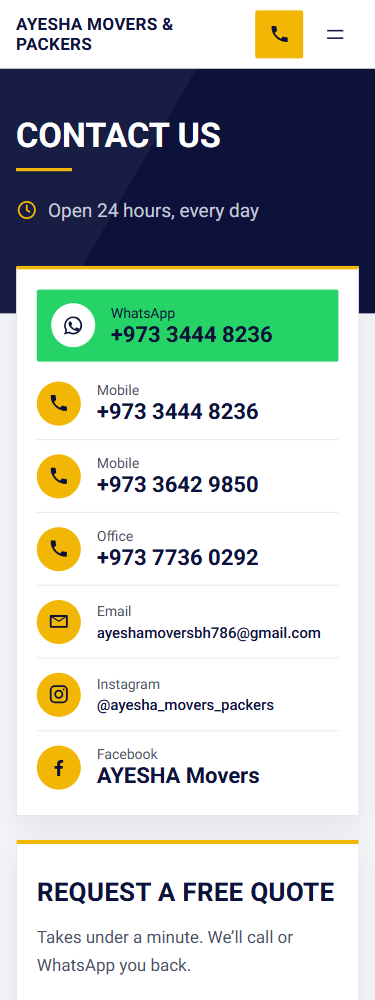
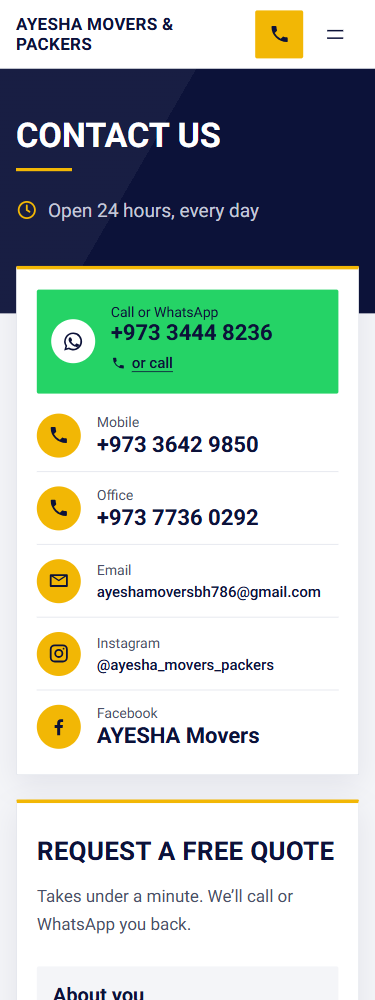
Phase 7: Contact Us shows one Call or WhatsApp row when the WhatsApp number is the main number
Same rule as the footer (ayesha-if-whatsapp-same / -differs): one green row (tap = WhatsApp, small
"or call" tel: link inside), no repeated Mobile row; both rows when the numbers differ.

diff --git a/docs/content/contact.html b/docs/content/contact.html
@@ -12,8 +12,22 @@
 <section class="wp-block-group alignfull ayesha-section ayesha-contact" style="padding-top:var(--wp--preset--spacing--50);padding-bottom:var(--wp--preset--spacing--60)"><!-- wp:columns {"className":"ayesha-contact__columns","style":{"spacing":{"blockGap":{"top":"var:preset|spacing|50","left":"var:preset|spacing|50"}}}} -->
 <div class="wp-block-columns ayesha-contact__columns"><!-- wp:column {"width":"41.67%","className":"ayesha-contact__aside"} -->
 <div class="wp-block-column ayesha-contact__aside" style="flex-basis:41.67%"><!-- wp:group {"metadata":{"name":"Contact rows (shown when Business Info \u003e Show contact details is on)"},"className":"ayesha-contact__rows ayesha-if-contact-details","layout":{"type":"default"}} -->
-<div class="wp-block-group ayesha-contact__rows ayesha-if-contact-details"><!-- wp:group {"metadata":{"name":"WhatsApp"},"className":"ayesha-contact__row ayesha-contact__row\u002d\u002dwhatsapp","style":{"spacing":{"blockGap":"0"}},"layout":{"type":"default"}} -->
-<div class="wp-block-group ayesha-contact__row ayesha-contact__row--whatsapp"><!-- wp:paragraph {"className":"ayesha-contact__label"} -->
+<div class="wp-block-group ayesha-contact__rows ayesha-if-contact-details"><!-- wp:group {"metadata":{"name":"Call or WhatsApp (shown when the WhatsApp number is the main number)"},"className":"ayesha-contact__row ayesha-contact__row\u002d\u002dwhatsapp ayesha-if-whatsapp-same","style":{"spacing":{"blockGap":"0"}},"layout":{"type":"default"}} -->
+<div class="wp-block-group ayesha-contact__row ayesha-contact__row--whatsapp ayesha-if-whatsapp-same"><!-- wp:paragraph {"className":"ayesha-contact__label"} -->
+<p class="ayesha-contact__label">Call or WhatsApp</p>
+<!-- /wp:paragraph -->
+
+<!-- wp:paragraph {"metadata":{"bindings":{"content":{"source":"ayesha/business","args":{"key":"whatsapp_link"}}},"name":"WhatsApp (from Business Info)"},"className":"ayesha-contact__value"} -->
+<p class="ayesha-contact__value"><a href="https://wa.me/97334448236">+973 3444 8236</a></p>
+<!-- /wp:paragraph -->
+
+<!-- wp:paragraph {"metadata":{"bindings":{"content":{"source":"ayesha/business","args":{"key":"phone_primary_link","label":"or call"}}},"name":"Or call (main number, from Business Info)"},"className":"ayesha-contact__alt"} -->
+<p class="ayesha-contact__alt"><a href="tel:+97334448236">or call</a></p>
+<!-- /wp:paragraph --></div>
+<!-- /wp:group -->
+
+<!-- wp:group {"metadata":{"name":"WhatsApp (shown when it is a different number from the main number)"},"className":"ayesha-contact__row ayesha-contact__row\u002d\u002dwhatsapp ayesha-if-whatsapp-differs","style":{"spacing":{"blockGap":"0"}},"layout":{"type":"default"}} -->
+<div class="wp-block-group ayesha-contact__row ayesha-contact__row--whatsapp ayesha-if-whatsapp-differs"><!-- wp:paragraph {"className":"ayesha-contact__label"} -->
 <p class="ayesha-contact__label">WhatsApp</p>
 <!-- /wp:paragraph -->
 
@@ -22,8 +36,8 @@
 <!-- /wp:paragraph --></div>
 <!-- /wp:group -->
 
-<!-- wp:group {"metadata":{"name":"Mobile (main number)"},"className":"ayesha-contact__row","style":{"spacing":{"blockGap":"0"}},"layout":{"type":"default"}} -->
-<div class="wp-block-group ayesha-contact__row"><!-- wp:paragraph {"className":"ayesha-contact__label"} -->
+<!-- wp:group {"metadata":{"name":"Mobile (main number) (shown when WhatsApp is a different number)"},"className":"ayesha-contact__row ayesha-if-whatsapp-differs","style":{"spacing":{"blockGap":"0"}},"layout":{"type":"default"}} -->
+<div class="wp-block-group ayesha-contact__row ayesha-if-whatsapp-differs"><!-- wp:paragraph {"className":"ayesha-contact__label"} -->
 <p class="ayesha-contact__label">Mobile</p>
 <!-- /wp:paragraph -->
 

diff --git a/wp-content/themes/ayesha-movers/assets/css/theme.css b/wp-content/themes/ayesha-movers/assets/css/theme.css
@@ -1700,6 +1700,42 @@ body:not(.editor-styles-wrapper) .ayesha-contact__columns:not(:has(.ayesha-conta
 .ayesha-contact__aside .ayesha-contact__row--whatsapp:hover { background: #3DDC77; }
 .ayesha-contact__aside .ayesha-contact__row:not(.ayesha-contact__row--whatsapp):hover { background: var(--ayesha-mist); }
 
+/* "Call or WhatsApp" row (WhatsApp number = main number): the row opens WhatsApp; the small
+   "or call" link under the number dials it. It sits above the row's tap area so it can be tapped. */
+.ayesha-contact__row > .ayesha-contact__alt {
+	position: relative;
+	z-index: 3;
+	grid-column: 2;
+	margin: 0.125rem 0 0 !important;
+	font-size: 0.9375rem;
+	line-height: 1.2;
+}
+
+/* Three lines in this row (label, number, "or call"): the icon circle spans all of them. */
+.ayesha-contact__row:has(> .ayesha-contact__alt)::after { grid-row: 1 / span 3; }
+
+.ayesha-contact__alt a {
+	display: inline-flex;
+	align-items: center;
+	gap: 0.375rem;
+	min-height: 32px;
+	color: var(--ayesha-navy);
+	font-weight: 500;
+	text-decoration: underline;
+	text-underline-offset: 0.2em;
+}
+
+.ayesha-contact__alt a::before {
+	content: "";
+	width: 0.9375rem;
+	height: 0.9375rem;
+	background: currentColor;
+	-webkit-mask: var(--ayesha-icon-phone) center / contain no-repeat;
+	mask: var(--ayesha-icon-phone) center / contain no-repeat;
+}
+
+.ayesha-contact__alt a:focus-visible { outline: 3px solid var(--ayesha-navy); outline-offset: 2px; box-shadow: 0 0 0 2px #fff; }
+
 /* With "Show contact details" off the rows card is empty: hide it (front end only). */
 body:not(.editor-styles-wrapper) .ayesha-contact__aside:not(:has(.ayesha-contact__rows)) { display: none; }
 

diff --git a/wp-content/themes/ayesha-movers/patterns/contact-page.php b/wp-content/themes/ayesha-movers/patterns/contact-page.php
@@ -16,10 +16,13 @@
  * @param string $label Visible label.
  * @param string $key   Business Info key (a *_link key).
  * @param string $html  Fallback link HTML (what the editor stores; the site shows the live value).
+ * @param string $link_text Own link words (binding "label"), or '' for the value itself.
+ * @param string $extra     Extra classes, e.g. ayesha-if-whatsapp-same / ayesha-if-whatsapp-differs (same rule as the footer).
+ * @param string $after     Extra block markup inside the row, after the value.
  * @return string
  */
-$ayesha_row = static function ( $name, $label, $key, $html, $link_text = '' ) {
-	$classes = 'ayesha-contact__row' . ( 'whatsapp_link' === $key ? ' ayesha-contact__row--whatsapp' : '' ) . ( 'facebook_link' === $key ? ' ayesha-if-facebook' : '' );
+$ayesha_row = static function ( $name, $label, $key, $html, $link_text = '', $extra = '', $after = '' ) {
+	$classes = 'ayesha-contact__row' . ( 'whatsapp_link' === $key ? ' ayesha-contact__row--whatsapp' : '' ) . ( 'facebook_link' === $key ? ' ayesha-if-facebook' : '' ) . ( '' === $extra ? '' : ' ' . $extra );
 	$args    = '"key":"' . esc_attr( $key ) . '"' . ( '' === $link_text ? '' : ',"label":"' . esc_attr( $link_text ) . '"' );
 	return '<!-- wp:group {"metadata":{"name":"' . esc_attr( $name ) . '"},"className":"' . $classes . '","style":{"spacing":{"blockGap":"0"}},"layout":{"type":"default"}} -->
 <div class="wp-block-group ' . $classes . '"><!-- wp:paragraph {"className":"ayesha-contact__label"} -->
@@ -28,13 +31,21 @@ $ayesha_row = static function ( $name, $label, $key, $html, $link_text = '' ) {
 
 <!-- wp:paragraph {"className":"ayesha-contact__value","metadata":{"bindings":{"content":{"source":"ayesha/business","args":{' . $args . '}}},"name":"' . esc_attr( $name ) . ' (from Business Info)"}} -->
 <p class="ayesha-contact__value">' . $html . '</p>
-<!-- /wp:paragraph --></div>
+<!-- /wp:paragraph -->' . $after . '</div>
 <!-- /wp:group -->';
 };
 
+// The small "or call" link inside the combined row (tap the row = WhatsApp).
+$ayesha_or_call = '
+
+<!-- wp:paragraph {"className":"ayesha-contact__alt","metadata":{"bindings":{"content":{"source":"ayesha/business","args":{"key":"phone_primary_link","label":"or call"}}},"name":"Or call (main number, from Business Info)"}} -->
+<p class="ayesha-contact__alt"><a href="tel:+97334448236">or call</a></p>
+<!-- /wp:paragraph -->';
+
 $ayesha_rows = array(
-	$ayesha_row( 'WhatsApp', 'WhatsApp', 'whatsapp_link', '<a href="https://wa.me/97334448236">+973 3444 8236</a>' ),
-	$ayesha_row( 'Mobile (main number)', 'Mobile', 'phone_primary_link', '<a href="tel:+97334448236">+973 3444 8236</a>' ),
+	$ayesha_row( 'Call or WhatsApp (shown when the WhatsApp number is the main number)', 'Call or WhatsApp', 'whatsapp_link', '<a href="https://wa.me/97334448236">+973 3444 8236</a>', '', 'ayesha-if-whatsapp-same', $ayesha_or_call ),
+	$ayesha_row( 'WhatsApp (shown when it is a different number from the main number)', 'WhatsApp', 'whatsapp_link', '<a href="https://wa.me/97334448236">+973 3444 8236</a>', '', 'ayesha-if-whatsapp-differs' ),
+	$ayesha_row( 'Mobile (main number) (shown when WhatsApp is a different number)', 'Mobile', 'phone_primary_link', '<a href="tel:+97334448236">+973 3444 8236</a>', '', 'ayesha-if-whatsapp-differs' ),
 	$ayesha_row( 'Mobile (second number)', 'Mobile', 'phone_secondary_link', '<a href="tel:+97336429850">+973 3642 9850</a>' ),
 	$ayesha_row( 'Office', 'Office', 'phone_office_link', '<a href="tel:+97377360292">+973 7736 0292</a>' ),
 	$ayesha_row( 'Email', 'Email', 'email_link', '<a href="mailto:ayeshamoversbh786@gmail.com">ayeshamoversbh786@gmail.com</a>' ),

diff --git a/PROGRESS.md b/PROGRESS.md
@@ -73,6 +73,7 @@ In the Media Library, the tags are prefixed to the title (`[DO NOT USE]`, `[PLAC
   - **Eighth round (2026-10-06, "follow site-home-1920.png" = Services cards like Home):** the six Our Services cards now use Home's card look: white on light grey, icon in a gold circle, centred title and text, the "What's included" list as a centred block with left-aligned ticks, the WhatsApp button at the foot of the card (lined up across each row), hover lift; 3 across from 1100px, 2 from 640px, 1 on phones. CSS only; no content or anchors changed.
   - **Ninth round (2026-10-06, About Us check):** "Who runs it" + "How we work" made one centred column (on computers the short "Who runs it" left a large empty half beside "How we work"); the four commitments are now cards like Home's (icon in a gold circle, centred, hover lift; 4 across from 1100px, 2 from 640px, 1 on phones). Phones and tablets: "How a move works" and "Where we go" (Home and About) now put their title and intro on the left, in line with their left-aligned list (centred from 960px). CSS only.
   - **Tenth round (2026-10-06, "make Contact Us beautiful"):** Contact Us now opens with a navy title band like the other pages ("Contact us" with the gold bar and the opening hours with a gold clock); the contact rows became one white card (rows divided by thin lines, WhatsApp the green first row) beside the form card; both cards have a gold top edge and a soft shadow and overlap the band by 72px (48px on phones). The H1 and the hours block moved into a new "Page heading" section (words unchanged, the hours keep the "Show contact details" rule); the rest is CSS.
+  - **Eleventh round (2026-10-06, before merging):** the main number no longer shows twice on Contact Us. Same rule as the footer: when the WhatsApp number equals the main number, the card has one green **"Call or WhatsApp"** row (tap = WhatsApp, plus a small **"or call"** tel: link inside the row), and the "Mobile (main number)" row is hidden; when they differ, the "WhatsApp" and "Mobile" rows show. Rows carry `ayesha-if-whatsapp-same` / `ayesha-if-whatsapp-differs` (AYESHA Core removes the one that doesn't apply). `docs/content/contact.html` re-exported.
 - **Next step:** the user reviews `phase-7-design`; after approval: remove the junctions (`rmdir`), restore the main checkout's folders, merge into `main`, push, smoke-test. Then Phase 8.
 - **Last completed:** Phase 6 (Contact Us + quote form + email), approved and merged into `main` 2026-10-03 at 497997f (fast-forward); smoke test passed (see Test results › Phase 6 › Post-merge smoke test).
 - **Test data kept on the local site (user decision 2026-10-03):** 19 test enquiries AYM-261003-001 … 019 and AYM-261006-001 (015–019 and 261006-001 sent in Phase 7: "Phase7 Test", "Phase7b Test", "Short NoMsg Test", "Short Msg <b>Test</b>", "Full Form Test") and WP Mail Logging rows 4–28 (row 27 went to the made-up address shorttest@example.com; locally nothing is delivered).
@@ -609,4 +610,15 @@ Screenshots: `site-contact-{375,768,1280,1920}.png`, `contact-first-screen-{375,
 | I3 | Contact rows | All 7, links unchanged | 7 rows (WhatsApp, 2 × Mobile, Office, Email, Instagram, Facebook) | Pass |
 | I4 | Invalid blocks | 0 | Home 112, About 31, Our Services 99, Contact 32 blocks: 0 invalid; theme patterns 0 invalid | Pass |
 | I5 | Horizontal scroll; axe | 0 px; 0 serious/critical | 0 px at 375/768/1280/1920; only the known moderate `region` | Pass |
+
+#### Phase 7, eleventh round ("Call or WhatsApp" row; run 2026-10-06)
+Screenshots: `contact-card-same-{375,1920}.png`, `contact-card-differ-{375,1920}.png`, `site-contact-{375,1920}.png`, `contact-first-screen-{375,1920}.png`.
+
+| # | Test | Expected | Result | Pass/Fail |
+|---|---|---|---|---|
+| J1 | Same number (current setting), 375 and 1920 | One "Call or WhatsApp" row, no repeated "Mobile" | 6 rows: Call or WhatsApp (`wa.me/97334448236` + "or call" `tel:+97334448236`), Mobile +973 3642 9850, Office, Email, Instagram, Facebook | Pass |
+| J2 | Tap targets in the combined row | Row = WhatsApp, "or call" = phone | `elementFromPoint` on the row → `wa.me/97334448236`; on "or call" → `tel:+97334448236` (it sits above the row's tap area) | Pass |
+| J3 | Different WhatsApp number (set to 97336429850 for the test, then restored to 97334448236) | Both rows | 7 rows: WhatsApp (`wa.me/97336429850`), Mobile (`tel:+97334448236`), Mobile, Office, Email, Instagram, Facebook; footer switched to "Main number" too | Pass |
+| J4 | Invalid blocks | 0 | Home 112, About 31, Our Services 99, Contact 36 blocks: 0 invalid; theme patterns 0 invalid | Pass |
+| J5 | Horizontal scroll; axe | 0 px; 0 serious/critical | 0 px at 375 and 1920; only the known moderate `region` | Pass |
 

diff --git a/docs/editing-guide.md b/docs/editing-guide.md
@@ -216,6 +216,7 @@ Open **Pages → Contact Us**. In **List View**: **Page heading** (the navy band
 
 - **Heading and the line under "Request a free quote"**: click and type.
 - **Show or hide the hours and contact rows:** Settings → Business Info → **Show contact details on Contact Us** (on now). While it's off, visitors see only the heading and the form, but the hours and rows stay in the page and you can still edit them here (the editor always shows them).
+- **"Call or WhatsApp" row:** when your WhatsApp number is the same as the main number, the card shows one green row "Call or WhatsApp" (tap it for WhatsApp; the small "or call" link under the number rings it) and no separate "Mobile" row for that number. If you set a different WhatsApp number in Business Info, it shows a "WhatsApp" row and a "Mobile" row instead, by itself. In the editor you see all three rows; their names say when each one shows (same rule as the footer).
 - **Opening hours and the contact rows** come from **Settings → Business Info** (see section 1): you can't type in the numbers, email or Instagram name here. Each row has a small label above the value ("WhatsApp", "Mobile", "Office", …); click a label to change its words. The whole row is the link, and its icon (phone, WhatsApp, envelope, Instagram) is chosen by the site from the kind of link.
 - To remove a row, select its group in List View (e.g. "Office") and delete it. To add one, duplicate a row (⋮ → **Duplicate**) and connect the copy's value to another Business Info field (section 3: Attributes → content).
 - **Keep the heading "Request a free quote" and its HTML anchor `quote`** (Advanced in the sidebar): the Home page's "Send a detailed quote request" link points to `/contact-us/#quote`.
